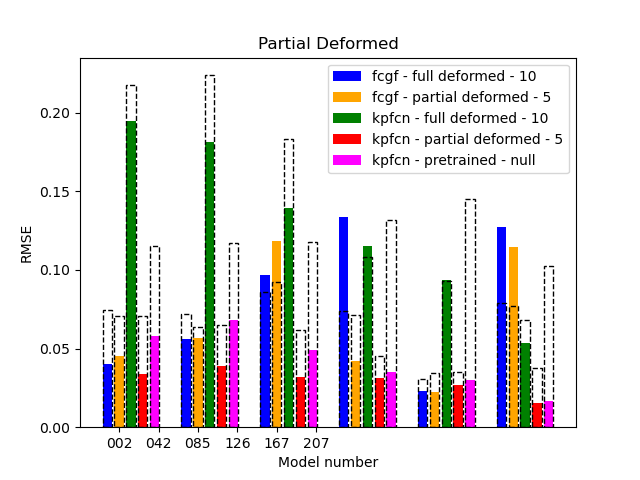
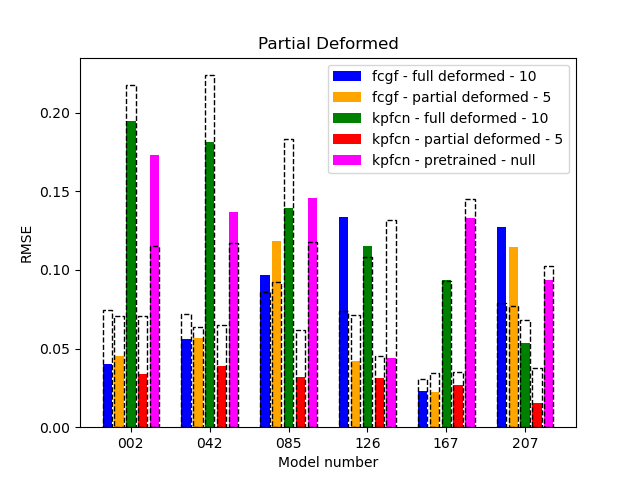
adding the files

diff --git a/Testing/all/aggregate_data_all_weights_per_datatype.py b/Testing/all/aggregate_data_all_weights_per_datatype.py
@@ -43,8 +43,8 @@ weights = {
     }
 }
 
-knn_matching = 'False'
-# knn_matching = 'True'
+# knn_matching = 'False'
+knn_matching = 'True'
 
 number = 0
 adm = 2.0
@@ -130,8 +130,6 @@ for data_type in data_types:
     number += 1
     plt.clf()
     f = plt.figure(number)
-    # fig, ax = plt.subplots()
-
     legend = []
 
     print('\n')
@@ -218,7 +216,7 @@ for data_type in data_types:
 
     plt.xlabel("Model number")
     plt.ylabel("RMSE")
-    plt.xticks([r + barWidth for r in range(len(model_numbers))], model_numbers)
+    plt.xticks([r + 2*barWidth for r in np.array([0, 2, 4, 6, 8, 10])], model_numbers)
     plt.legend(loc='upper right')
     title = data_type.replace('_', ' ')
     title = title.title()
